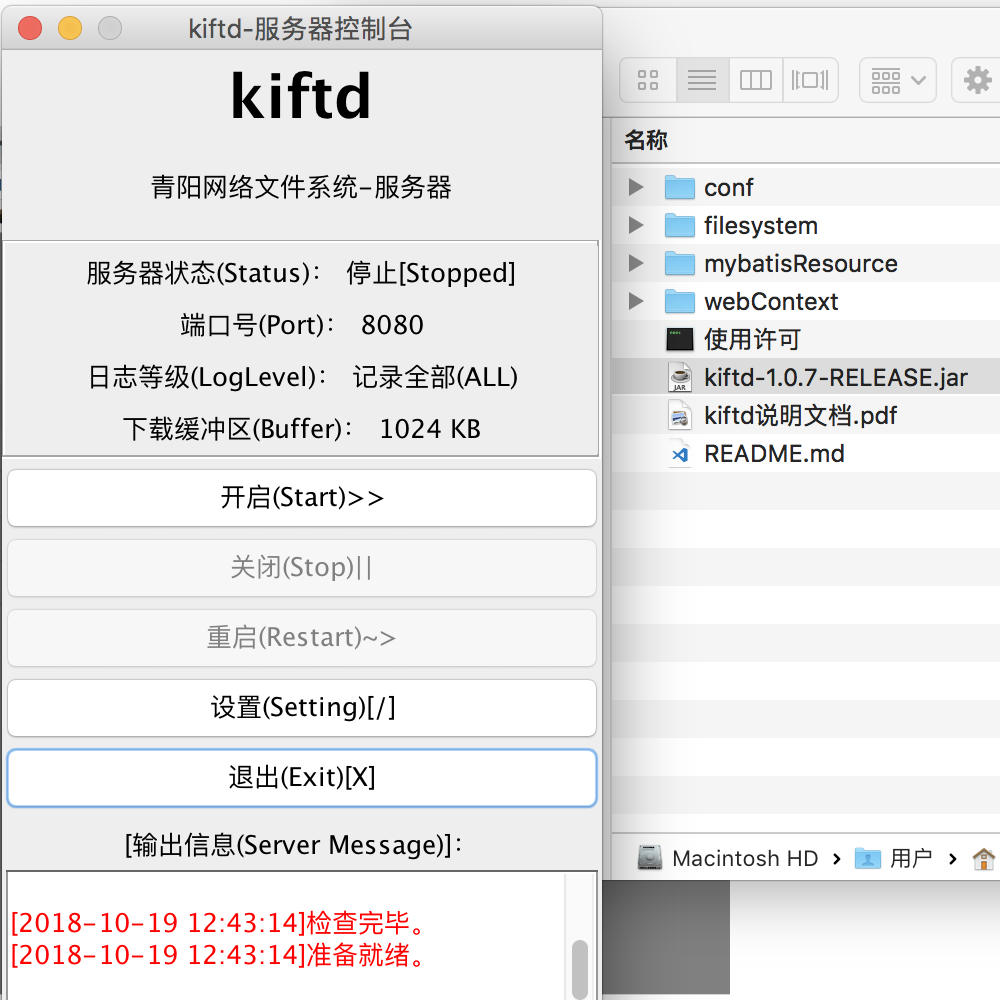
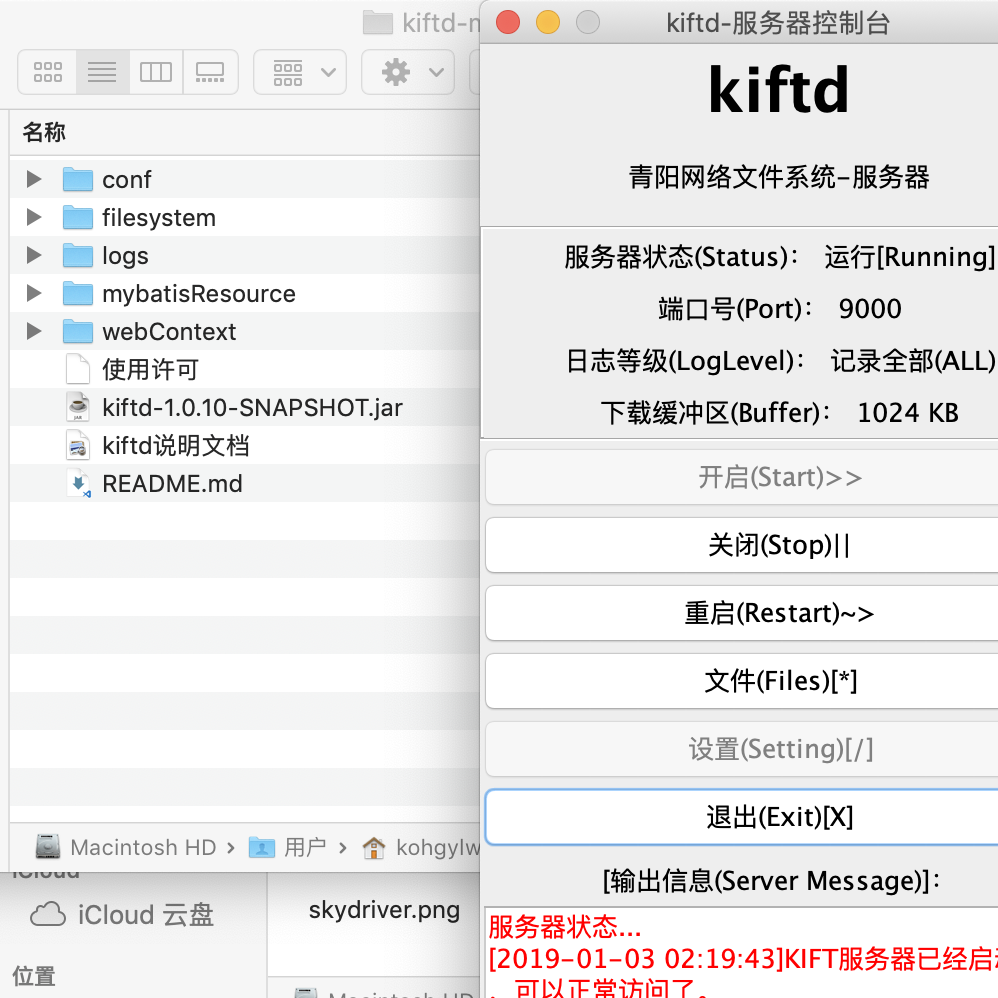
update to v1.0.10

Changed region(s): [[0.0, 0.0, 1.0, 1.0]]

diff --git a/News.html b/News.html
@@ -74,7 +74,29 @@
 
 		<div class="container marketing">
 			
-			<h2>新版本v1.0.9 <span class="badge">New</span></h2>
+			<h2>新版本v1.0.10 <span class="badge">New</span></h2>
+			<h4>本次更新增加了较多用户们一直期待的、实用性较强的新功能，进一步增强kiftd的使用体验。推荐所有用户升级体验。</h4>
+			<ul>
+				<li>文件管理——现在，期待已久的本地文件管理功能正式上线。该功能能够帮助您随时浏览kiftd中的文件和文件夹，同时它还能帮助您快速地完成文件的导入和导出工作（更多信息请见“kiftd说明文档”中的“管理kiftd中的文件”一节）。</li>
+				<li>文件夹打包下载——该功能能够帮助您将整个文件夹打包为ZIP下载，以便您快速下载层次较多的文件夹。此外，文件夹们也能够进行批量操作了。</li>
+				<li>移动端操作——新增移动端模式，您可以在移动设备（手机、平板电脑）上无障碍地操作kiftd了。</li>
+				<li>支持Safari——修正了在OS X和IOS系统下Safari浏览器无法在线播放视频和音频的问题，方便Mac和iPhone用户在线观看视频和欣赏音乐，同时也修复了使用Safari下载中文文件导致乱码的问题。</li>
+				<li>支持FireFox——另一个强大的现代浏览器：FireFox，现已加入kiftd兼容序列。</li>
+				<li>MOV视频——在线播放功能增加了对 Apple QuickTime 视频的支持，该功能现在能够播放 Apple 用户录制的mov视频了。</li>
+				<li>完善“移动”功能——修正了“剪切-粘贴”操作可能导致文件名冲突的BUG：当移动有冲突的文件和文件夹时，您可以为其选择“覆盖”、“保留两者”和“取消”了。</li>
+				<li>自定义页面标题——在“kiftd说明文档”中新增了如何修改页面标题和提示信息的提示，图文并茂，方便用户对页面上的标题文字进行自定义（更多信息请见“高级功能”一章中的“自定义kiftd的页面标题”一节）。</li>
+				<li>在“设置”窗口中增加当前文件系统存储路径的显示——便于用户随时查看当前的文件系统所在位置。</li>
+				<li>优化了Windows 10（尤其是使用高分辨率显示器）下UI界面的显示效果，同时优化了Windows 10中任务栏图标（如何避免任务栏图标被隐藏？详见“在Windows系统下3分钟快速安装”一节最后的提示部分）。</li>
+				<li>为上传状态增加提示信息——如果用户在上传过程中隐藏了窗口，则弹出提示提醒用户上传仍在继续并可以重新打开上传窗口查看上传进度。</li>
+				<li>优化了“下载”功能，使其占用的内存更少。</li>
+				<li>修正了“下载”功能可能导致日志重复记录的问题。</li>
+				<li>修正了线音乐播放器在禁止自动播放的环境下，“播放”与“暂停”不同步的问题。</li>
+				<li>（高级）集成MySQL——允许有需求的高级用户使用自有的MySQL数据库存储文件节点信息，方便进行二次开发（详见“高级功能”一章中的“将文件系统数据库替换为MySQL”一节）。</li>
+				<li>其他一些功能的优化，进一步增强系统稳定性。</li>
+			</ul>
+			<br />
+			
+			<h2>新版本v1.0.9</h2>
 			<h4>本次更新增加了一些新功能，方便用户操作。推荐所有用户升级体验。</h4>
 			<ul>
 				<li>快捷键——为操作菜单中的每个操作项增加了快捷键（Shift+？），以便于用户高效操作。</li>

diff --git a/index.html b/index.html
@@ -94,6 +94,8 @@
 				<li data-target="#myCarousel" data-slide-to="3"></li>
 
 				<li data-target="#myCarousel" data-slide-to="4"></li>
+				
+				<li data-target="#myCarousel" data-slide-to="4"></li>
 
 			</ol>
 			<div class="carousel-inner" role="listbox">
@@ -128,6 +130,18 @@
 								<div class="panel-body">
 									<h1>网盘领域的“无障碍设施”</h1>
 									<p>无需再让访问者们去下载客户端或Flash，也不需要安装任何额外插件。打开浏览器，开始体验全部功能。</p>
+								</div>
+							</div>
+						</div>
+					</div>
+				</div>
+				<div style='background-image: url(img/onphone.png);' class="item banner">
+					<div class="container">
+						<div class="carousel-caption">
+							<div class="panel panel-default">
+								<div class="panel-body">
+									<h1>移动端支持，“无线”传输</h1>
+									<p>移动端也能够访问并使用kiftd的全部功能——即时没有数据线，电脑、手机、平板之间也能进行文件互传。</p>
 								</div>
 							</div>
 						</div>
@@ -184,7 +198,7 @@
 				<div class="col-lg-4">
 					<img class="img-circle" src="img/skydriver.png" width="140">
 					<h2>“无限”传输</h2>
-					<p>kiftd简约不简单。视频播放、图片查看、音乐播放、权限设置、拖拽上传……这些高级功能，对kiftd来说都是标配。</p>
+					<p>kiftd简约不简单。视频播放、图片查看、音乐播放、权限设置、拖拽上传、移动端访问……这些功能，对kiftd来说都是标配。</p>
 				</div>
 				<!-- /.col-lg-4 -->
 				<div class="col-lg-4">

diff --git a/Functions.html b/Functions.html
@@ -215,6 +215,8 @@
 					<li data-target="#myCarousel" data-slide-to="6"></li>
 					
 					<li data-target="#myCarousel" data-slide-to="7"></li>
+					
+					<li data-target="#myCarousel" data-slide-to="8"></li>
 				</ol>
 				<div class="carousel-inner" role="listbox">
 					<div style='background-image: url(img/c1.png);' class="item active banner">
@@ -289,6 +291,17 @@
 								<div class="panel panel-default">
 									<div class="panel-body">
 										<p>图片预览：支持批量预览、缩放、翻转……</p>
+									</div>
+								</div>
+							</div>
+						</div>
+					</div>
+					<div style='background-image: url(img/onphone2.png);' class="item banner">
+						<div class="container">
+							<div class="carousel-caption">
+								<div class="panel panel-default">
+									<div class="panel-body">
+										<p>所有这些特色功能，均适用于移动端。</p>
 									</div>
 								</div>
 							</div>
